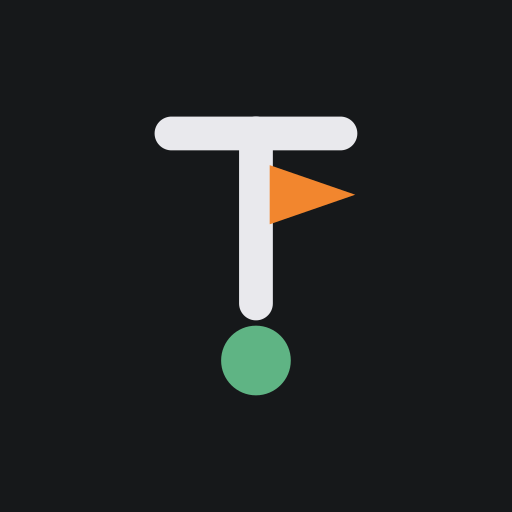
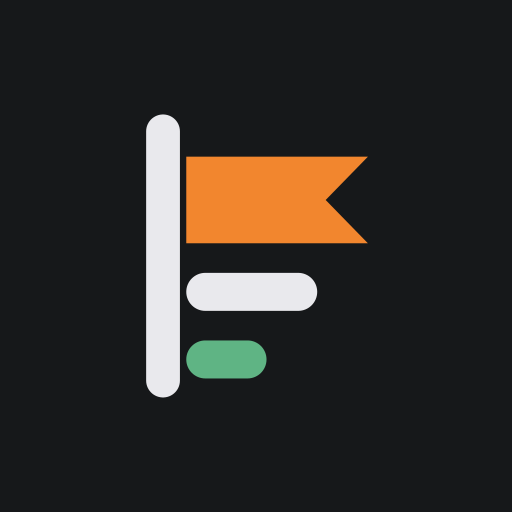
Make the mark say what the product does, not what it is called
The T monogram in the previous commit was legible at every size and safe.
That was the problem with it: a letter says the company's initial and
nothing about the game or the competition, and it would have suited any
business starting with T.

The standings flag says both. A pole carrying three bars of decreasing
length reads one way as a pennant on a flagstick and the other as a
leaderboard, longest bar at the top. The second reading is about what the
software DOES, which is the difference between a mark that identifies a
company and one that describes it.

The swallowtail on the top bar is load-bearing rather than decorative:
without that notch the mark is a bar chart and only a bar chart, and the
golf reading disappears entirely.

Four other directions were drawn and rejected BY RENDERING THEM, which is
the only test that settles this. Green contours from a yardage book read
as a speedometer. The Q of HQ redrawn as a cup read as a magnifying glass
-- and still did after a second attempt that moved the tail. A scorecard
box with the ball inside it read as a camera. None of those could have
been argued out of the collision; each one had to be looked at.

The gaps between the lower bars are 2.8 units rather than 2.0. At 16px --
a browser tab, a home screen -- the tighter spacing let the two merge into
a single bar and the standings reading collapsed.

Everything downstream regenerates from the one drawing: PWA tiles, the
[…]

Changed region(s): [[0.2812, 0.2188, 0.7188, 0.7812]]

diff --git a/src/components/Logo.tsx b/src/components/Logo.tsx
@@ -1,34 +1,46 @@
 /**
- * TourneyHQ brand mark — the pin monogram: a T whose stem is the flagstick,
- * with the pennant flying off it and the ball at its foot.
+ * TourneyHQ brand mark — the standings flag.
  *
- * It replaced a "holing out" drawing — ball, cup and flag in perspective —
- * that was designed at large size and never checked small. At 16px, which is
- * a browser tab and a home-screen icon, the cup ellipse thinned to nothing
- * and the mark read as a green dot beside a stick. A logo that only works
- * at 200px is a picture.
+ * A pole carrying three bars of decreasing length. Read one way it is a
+ * pennant on a flagstick; read the other it is a leaderboard, longest bar
+ * at the top. Both readings are true of the product, which is the point:
+ * the second meaning is about what the software DOES, not merely about
+ * what the company is called.
  *
- * This one carries two readings at once, which is most of what separates a
- * designed mark from a stock icon: the T of TourneyHQ, and the pin. It also
- * survives as a single-colour silhouette, which the old one did not — the cup
- * was defined by its outline, so flattening the palette erased it.
+ * It replaced two earlier marks, and the reason both went is worth keeping.
+ * The first drew "holing out" — ball, cup and flag in perspective — and was
+ * designed at large size without ever being checked small: at 16px, which
+ * is a browser tab and a home-screen icon, the cup ellipse thinned to
+ * nothing and it read as a green dot beside a stick. The second was a T
+ * monogram, which was legible but safe — it said the company's initial and
+ * nothing about the game or the competition.
  *
- * ONE geometry, everywhere. The landing page used to draw its own copy with a
- * slightly larger cup and a thinner flagstick, so the logo above the sign-in
- * button was quietly not the logo inside the app. Nobody would name it, but it
- * is the kind of thing that makes a product feel assembled rather than made.
+ * Four other directions were drawn and rejected by rendering them rather
+ * than by describing them, which is the only test that decides this: green
+ * contours read as a speedometer, the Q-as-a-hole read as a magnifying
+ * glass, and a scorecard box read as a camera. A mark cannot be argued out
+ * of a collision like that — it either survives being looked at or it does
+ * not.
  *
- * Colours come from variables so the marketing page can keep its own palette
- * without keeping its own drawing:
+ * The swallowtail on the top bar is load-bearing. Without that notch the
+ * mark is a bar chart and only a bar chart; with it, the flag reading comes
+ * first and the standings reading second.
  *
- *   --logo-flag   the pennant — ORANGE
- *   --logo-stick  the T itself; defaults to the TEXT colour, so the mark and
- *                 the wordmark beside it read as one lockup on either ground
- *   --logo-ball   the ball — GREEN
+ * ONE geometry, everywhere. The landing page used to draw its own copy, so
+ * the logo above the sign-in button was quietly not the logo inside the
+ * app. Nobody would name it, but it is the kind of thing that makes a
+ * product feel assembled rather than made.
  *
- * There is no --logo-cup or --logo-rim any more: this mark has no cup. A
- * variable for a shape that does not exist is a promise the drawing cannot
- * keep.
+ * Colours come from variables so the marketing page can keep its own
+ * palette without keeping its own drawing:
+ *
+ *   --logo-flag   the leader's bar — ORANGE
+ *   --logo-stick  the pole and the second bar; defaults to the TEXT colour,
+ *                 so the mark and the wordmark read as one lockup
+ *   --logo-ball   the third bar — GREEN
+ *
+ * There is no --logo-cup or --logo-rim: this mark has no cup. A variable
+ * for a shape that does not exist is a promise the drawing cannot keep.
  */
 
 /**
@@ -91,35 +103,32 @@ export function Logo({
     <svg
       width={size}
       height={size}
-      /* NO OPTICAL SHIFT, because none is needed any more.
-         The drawing spans y 2.8 (the crossbar's cap) to 29.2 (the foot of the
-         ball) — a centre of exactly 16, which is the box centre. The previous
-         mark needed `viewBox="0 -1.5 32 32"` to correct for artwork that sat
-         high in its own box; this one is built centred instead, which is the
-         better fix because nothing downstream has to remember the correction.
-         `scripts/gen-icons.mjs` therefore carries no translate either, and
-         brand-consistency checks the two agree. */
+      /* NO OPTICAL SHIFT, because none is needed.
+         The drawing spans y 2.6 (the pole's top cap) to 29.4 (its bottom) —
+         a centre of exactly 16, which is the box centre. An older mark
+         needed `viewBox="0 -1.5 32 32"` to correct artwork that sat high in
+         its own box; building it centred is the better fix, because nothing
+         downstream has to remember the correction. `scripts/gen-icons.mjs`
+         therefore carries no translate either, and brand-consistency asserts
+         that neither of them does. */
       viewBox="0 0 32 32"
       fill="none"
       aria-hidden="true"
       style={style}
     >
-      {/* The crossbar and the stem: a T, and the pin it is named for. */}
-      <path
-        d="M8 4.4 H24"
-        // Its own variable, falling back to the flag's colour. The app draws
-        // stick and pennant in one colour; the programme palette draws the
-        // stick in ink and lets only the pennant carry the orange. Collapsing
-        // the two lost that two-tone the first time this was unified.
-        stroke={stick}
-        strokeWidth="3.2"
-        strokeLinecap="round"
-      />
-      <path d="M16 4.4 V20.5" stroke={stick} strokeWidth="3.2" strokeLinecap="round" />
-      {/* the pennant, flying off the stem */}
-      <path d="M17.3 7.4 L25.4 10.2 L17.3 13 Z" fill={flag} />
-      {/* the ball, at the foot of the pin */}
-      <circle cx="16" cy="25.9" r="3.3" fill={ball} />
+      {/* The pole. Ink rather than orange: it belongs to the wordmark beside
+          it, and leaving the pennant as the only accent stops the mark and the
+          "HQ" competing for the same attention. */}
+      <path d="M7.2 4.2 V27.8" stroke={stick} strokeWidth="3.2" strokeLinecap="round" />
+      {/* The leader's bar, which is also the pennant. Swallow-tailed on
+          purpose: that notch is the whole reason both readings survive — a
+          plain rectangle here is a bar chart and nothing else. */}
+      <path d="M9.4 6.6 h17.2 l-4 4.1 l4 4.1 H9.4 z" fill={flag} />
+      {/* Second and third, shorter, because that is what a standing IS. The
+          gaps are 2.8 units rather than 2.0: at 16px the tighter spacing let
+          the two lower bars merge into one. */}
+      <rect x="9.4" y="17.6" width="12.4" height="3.6" rx="1.8" fill={stick} />
+      <rect x="9.4" y="24" width="7.6" height="3.6" rx="1.8" fill={ball} />
     </svg>
   );
 }

diff --git a/src/lib/__tests__/brand-consistency.test.ts b/src/lib/__tests__/brand-consistency.test.ts
@@ -32,9 +32,9 @@ describe("the brand mark is drawn once", () => {
   const files = allTsx("src");
 
   it("has exactly one copy of the flagstick geometry in the app", () => {
-    // The stem path is the mark's signature. A second file containing it
-// means somebody drew the logo again instead of importing it.
-const drawing = files.filter((f) => read(f).includes('d="M16 4.4 V20.5"'));
+    // The pole is the mark's signature. A second file containing it means
+// somebody drew the logo again instead of importing it.
+const drawing = files.filter((f) => read(f).includes('d="M7.2 4.2 V27.8"'));
     expect(drawing, `logo geometry duplicated in: ${drawing.join(", ")}`).toEqual([
       "src/components/Logo.tsx",
     ]);
@@ -56,8 +56,8 @@ const drawing = files.filter((f) => read(f).includes('d="M16 4.4 V20.5"'));
     expect(logo, "the component nudges the mark").toContain('viewBox="0 0 32 32"');
     expect(gen, "the generator nudges the mark").not.toMatch(/translate\(0,\s*\d/);
     // And the generator's grid is the component's, x16.
-    expect(gen).toContain('M256 70.4 V328');
-    expect(logo).toContain('M16 4.4 V20.5');
+    expect(gen).toContain('M115.2 67.2 V444.8');
+    expect(logo).toContain('M7.2 4.2 V27.8');
   });
 
   it("lets a different palette re-skin the one drawing", () => {
